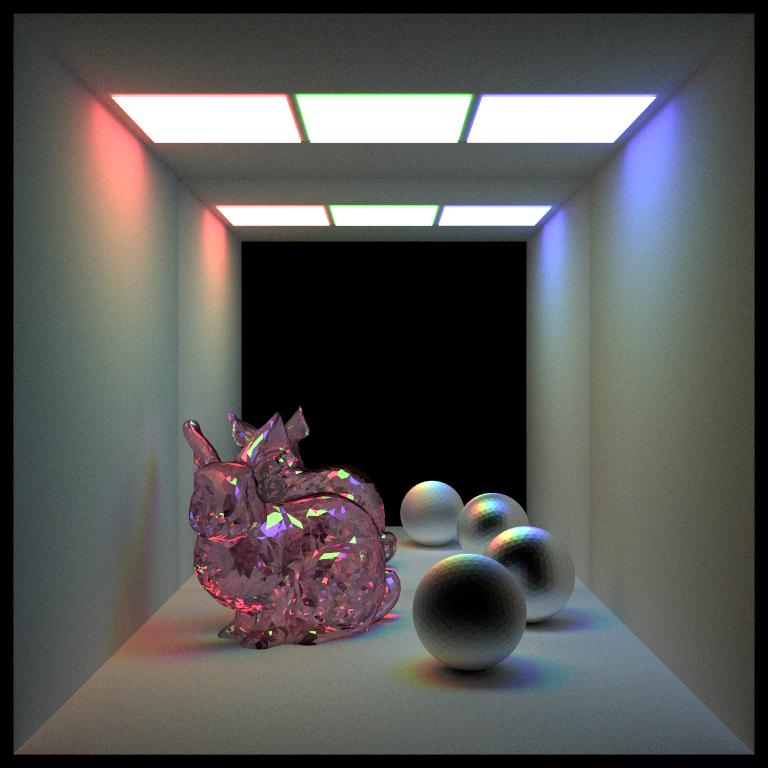
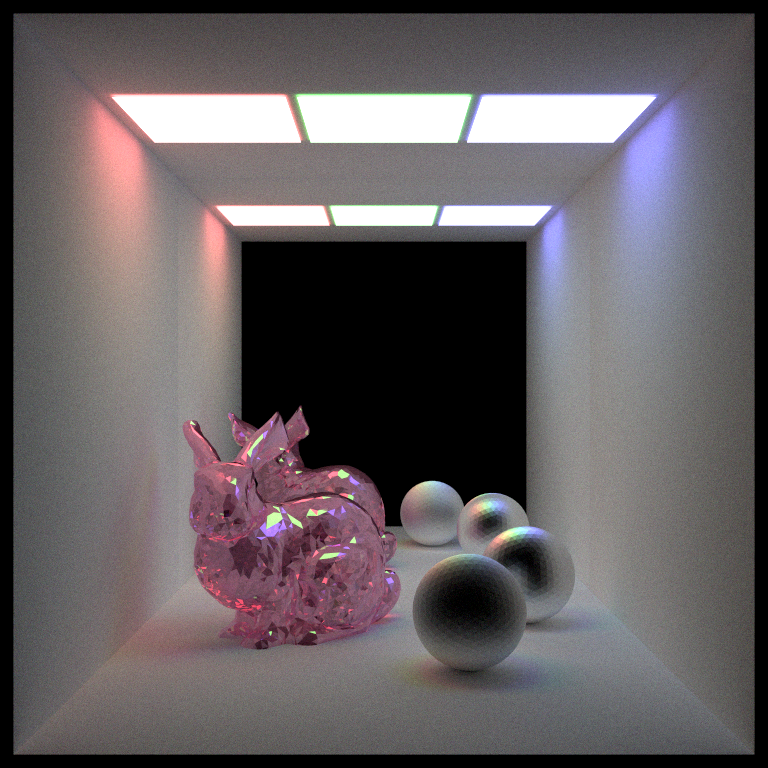
Fix attenuation bug

diff --git a/optix_sdk_7_2_0/SDK/optixPathTracer/optixPathTracer.cpp b/optix_sdk_7_2_0/SDK/optixPathTracer/optixPathTracer.cpp
@@ -78,7 +78,7 @@ int32_t mouse_button = -1;
 
 int32_t samples_per_launch = 4;
 
-int depth = 3;
+int depth = 6;
 
 //------------------------------------------------------------------------------
 //
@@ -1208,8 +1208,8 @@ int main( int argc, char* argv[] )
         // Set up the scene
         // First add materials
         addMaterial(EMISSIVE, make_float3(1.f, 1.f, 1.f), make_float3(0.f), make_float3(5.f, 1.f, 1.f), 0.f, 0.f); // light material
-        addMaterial(EMISSIVE, make_float3(1.f, 1.f, 1.f), make_float3(0.f), make_float3(1.f, 5.f, 1.f), 0.f, 0.f); // light material
-        addMaterial(EMISSIVE, make_float3(1.f, 1.f, 1.f), make_float3(0.f), make_float3(1.f, 1.f, 5.f), 0.f, 0.f); // light material
+        addMaterial(EMISSIVE, make_float3(1.f, 1.f, 1.f), make_float3(0.f), make_float3(20.f, 20.f, 20.f), 0.f, 0.f); // light material
+        addMaterial(EMISSIVE, make_float3(1.f, 1.f, 1.f), make_float3(0.f), make_float3(5.f, 5.f, 5.f), 0.f, 0.f); // light material
         addMaterial(DIFFUSE, make_float3(1.f, 1.f, 1.f), make_float3(0.f), make_float3(0.f), 0.f, 0.f); // diffuse white
         addMaterial(DIFFUSE, make_float3(0.05f, 0.80f, 0.80f), make_float3(0.f), make_float3(0.f), 25.5f, 0.f); // diffuse cyan
         addMaterial(DIFFUSE, make_float3(0.80f, 0.05f, 0.80f), make_float3(0.f), make_float3(0.f), 0.f, 0.f); // diffuse magenta
@@ -1220,16 +1220,17 @@ int main( int argc, char* argv[] )
         addMaterial(MIRROR, make_float3(1.f, 1.f, 1.f), make_float3(1.f, 1.f, 1.f), make_float3(0.f), 0.f, 0.f); // perfect specular mirror
 
         // Then add geometry
-        addSceneGeometry(AREA_LIGHT, 0, glm::vec3(-3.2, 9.95f, 0), glm::vec3(0, 0, 0), glm::vec3(3, .3, 9.95), ""); // ceiling light 1
-        addSceneGeometry(AREA_LIGHT, 1, glm::vec3(0, 9.95f, 0), glm::vec3(0, 0, 0), glm::vec3(3, .3, 9.95), ""); // ceiling light 2
-        addSceneGeometry(AREA_LIGHT, 2, glm::vec3(3.2, 9.95f, 0), glm::vec3(0, 0, 0), glm::vec3(3, .3, 9.95), ""); // ceiling light 3
+        //addSceneGeometry(POINT_LIGHT, 0, glm::vec3(-3, 9.f, 0), glm::vec3(0, 0, 0), glm::vec3(1, .1, 1), ""); // ceiling light 1
+        //addSceneGeometry(SPOT_LIGHT, 1, glm::vec3(0, 9.95f, 0), glm::vec3(0, 0, 0), glm::vec3(1, .1, 1), ""); // ceiling light 2
+        addSceneGeometry(AREA_LIGHT, 2, glm::vec3(0, 9.95f, 0), glm::vec3(0, 0, 0), glm::vec3(3, .3, 3), ""); // ceiling light 3
         addSceneGeometry(CUBE, 3, glm::vec3(0, 0, 0), glm::vec3(0, 0, 90), glm::vec3(.01, 10, 10), ""); // floor
         addSceneGeometry(CUBE, 3, glm::vec3(0, 10, 0), glm::vec3(0, 0, 90), glm::vec3(.01, 10, 10), ""); // ceiling
         addSceneGeometry(CUBE, 10, glm::vec3(0, 5, -5), glm::vec3(0, 90, 0), glm::vec3(.01, 10, 10), ""); // back wall
-        //addSceneGeometry(CUBE, 3, glm::vec3(-5, 5, 0), glm::vec3(0, 0, 0), glm::vec3(.01, 10, 10), ""); // left wall
-        //addSceneGeometry(CUBE, 3, glm::vec3(5, 5, 0), glm::vec3(0, 0, 0), glm::vec3(.01, 10, 10), ""); // right wall
-        addSceneGeometry(MESH, 3, glm::vec3(-1.5, -1.2, -2), glm::vec3(0, 30, 0), glm::vec3(30, 30, 30), "../../data/bunny.obj"); // fresnel bunny
-        //addSceneGeometry(ICOSPHERE, 8, glm::vec3(1.5, 1, 1.2), glm::vec3(0, 0, 0), glm::vec3(1, 1, 1), ""); // glossy sphere 1
+        //addSceneGeometry(CUBE, 3, glm::vec3(0, 5, 5), glm::vec3(0, -90, 0), glm::vec3(.01, 10, 10), ""); // front wall
+        addSceneGeometry(CUBE, 5, glm::vec3(-5, 5, 0), glm::vec3(0, 0, 0), glm::vec3(.01, 10, 10), ""); // left wall
+        addSceneGeometry(CUBE, 4, glm::vec3(5, 5, 0), glm::vec3(0, 0, 0), glm::vec3(.01, 10, 10), ""); // right wall
+        addSceneGeometry(MESH, 6, glm::vec3(-1.5, -1.2, -2), glm::vec3(0, 30, 0), glm::vec3(30, 30, 30), "../../data/bunny.obj"); // fresnel bunny
+        addSceneGeometry(ICOSPHERE, 8, glm::vec3(1.5, 1, 1.2), glm::vec3(0, 0, 0), glm::vec3(1, 1, 1), ""); // glossy sphere 1
         addSceneGeometry(ICOSPHERE, 9, glm::vec3(3, 1, -2), glm::vec3(0, 0, 0), glm::vec3(1, 1, 1), ""); // glossy sphere 2
 
         //
